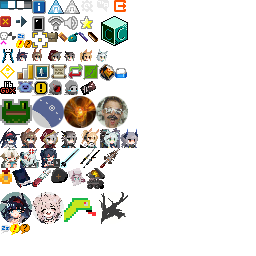
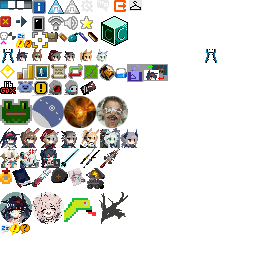
아마 마감

Changed region(s): [[0.4688, 0.25, 0.6562, 0.3438], [0.7812, 0.1875, 0.8438, 0.25], [0.5, 0.0, 0.5312, 0.0625]]

diff --git a/Arrrknights/core/src/main/java/com/shatteredpixel/shatteredpixeldungeon/sprites/ItemSpriteSheet.java b/Arrrknights/core/src/main/java/com/shatteredpixel/shatteredpixeldungeon/sprites/ItemSpriteSheet.java
@@ -92,6 +92,7 @@ public class ItemSpriteSheet {
 	public static final int TENGU_MINE      = UNCOLLECTIBLE+8;
 	public static final int TENGU_BOMB      = UNCOLLECTIBLE+9;
 	public static final int TENGU_SHOCKER   = UNCOLLECTIBLE+10;
+	public static final int INFO_CERTI   = UNCOLLECTIBLE+11;
 	static{
 		assignItemRect(GOLD,        16, 16);
 		assignItemRect(DEWDROP,     10, 10);
@@ -104,6 +105,7 @@ public class ItemSpriteSheet {
 		
 		assignItemRect(TENGU_BOMB,      16, 16);
 		assignItemRect(TENGU_SHOCKER,   16, 16);
+		assignItemRect(INFO_CERTI,   16, 16);
 	}
 
 	private static final int CONTAINERS     =                               xy(1, 3);   //16 slots
@@ -825,6 +827,7 @@ public class ItemSpriteSheet {
 	public static final int EGG_FRY =       FOOD2+5;
 	public static final int YUKJEON =       FOOD2+6;
 	public static final int SMOKEEGG =       FOOD2+7;
+	public static final int NUNEDDINE =       FOOD2+8;
 	static{
 		assignItemRect(MEAT_PIE,    16, 16);
 		assignItemRect(SANDBITCH,       16, 16);
@@ -834,6 +837,7 @@ public class ItemSpriteSheet {
 		assignItemRect(EGG_FRY,       16, 16);
 		assignItemRect(YUKJEON,       16, 16);
 		assignItemRect(SMOKEEGG,       16, 16);
+		assignItemRect(NUNEDDINE,       16, 16);
 	}
 
 	private static final int QUEST  =                                       xy(1, 30);  //32 slots

diff --git a/Arrrknights/core/src/main/java/com/shatteredpixel/shatteredpixeldungeon/ui/Icons.java b/Arrrknights/core/src/main/java/com/shatteredpixel/shatteredpixeldungeon/ui/Icons.java
@@ -43,7 +43,8 @@ public enum Icons {
 	DATA,
 	AUDIO,
 	TALENT,
-	
+	SKIN,
+
 	//ingame UI icons
 	SKULL,
 	BUSY,
@@ -58,6 +59,8 @@ public enum Icons {
 	POTION_BANDOLIER,
 	WAND_HOLSTER,
 	ICE_BOX,
+	HERO_CHANGES,
+	INFO_CERT,
 	
 	//hero & rankings icons
 	DEPTH,
@@ -151,6 +154,9 @@ public enum Icons {
 		case EXIT:
 			icon.frame( icon.texture.uvRect( 112, 0, 127, 12 ) );
 			break;
+			case SKIN:
+				icon.frame( icon.texture.uvRect( 129, 0, 142, 11 ) );
+				break;
 		case CLOSE:
 			icon.frame( icon.texture.uvRect( 0, 16, 11, 27 ) );
 			break;
@@ -207,6 +213,12 @@ public enum Icons {
 			break;
 			case ICE_BOX:
 				icon.frame( icon.texture.uvRect( 115, 68, 127, 78 ) );
+				break;
+			case INFO_CERT:
+				icon.frame( icon.texture.uvRect( 127, 64, 143, 82 ) );
+				break;
+			case HERO_CHANGES:
+				icon.frame( icon.texture.uvRect( 143, 64, 168, 81 ) );
 				break;
 			
 		case DEPTH:

diff --git a/Arrrknights/core/src/main/java/com/shatteredpixel/shatteredpixeldungeon/items/food/cooking/Glassate.java b/Arrrknights/core/src/main/java/com/shatteredpixel/shatteredpixeldungeon/items/food/cooking/Glassate.java
@@ -14,7 +14,7 @@ import com.shatteredpixel.shatteredpixeldungeon.sprites.ItemSpriteSheet;
 
 public class Glassate extends Food {
     {
-        image = ItemSpriteSheet.PAN_CAKE;
+        image = ItemSpriteSheet.NUNEDDINE;
         energy = Hunger.HUNGRY;
 
         stackable = true;

diff --git a/Arrrknights/core/src/main/java/com/shatteredpixel/shatteredpixeldungeon/items/NewGameItem/Certificate.java b/Arrrknights/core/src/main/java/com/shatteredpixel/shatteredpixeldungeon/items/NewGameItem/Certificate.java
@@ -15,7 +15,7 @@ import com.watabou.utils.Random;
 public class Certificate extends Item {
     private static final String TXT_VALUE	= "%+d";
     {
-        image = ItemSpriteSheet.TOKEN;
+        image = ItemSpriteSheet.INFO_CERTI;
     }
 
     public Certificate( int value ) {

diff --git a/Arrrknights/core/src/main/java/com/shatteredpixel/shatteredpixeldungeon/windows/WndGame.java b/Arrrknights/core/src/main/java/com/shatteredpixel/shatteredpixeldungeon/windows/WndGame.java
@@ -63,7 +63,7 @@ public class WndGame extends Window {
 					}
 				}
 		);
-		curBtn.icon(Icons.get(Icons.GOLD));
+		curBtn.icon(Icons.get(Icons.INFO_CERT));
 
 		addButton( curBtn = new RedButton( Messages.get(this, "settings") ) {
 			@Override

diff --git a/Arrrknights/core/src/main/java/com/shatteredpixel/shatteredpixeldungeon/scenes/HeroSelectScene.java b/Arrrknights/core/src/main/java/com/shatteredpixel/shatteredpixeldungeon/scenes/HeroSelectScene.java
@@ -210,7 +210,7 @@ public class HeroSelectScene extends PixelScene {
 		}
 
 		chnageButton = new IconButton(
-				Icons.get( Icons.CHANGES)){
+				Icons.get( Icons.HERO_CHANGES)){
 			@Override
 			protected void onClick() {
 				ChangeHero();
